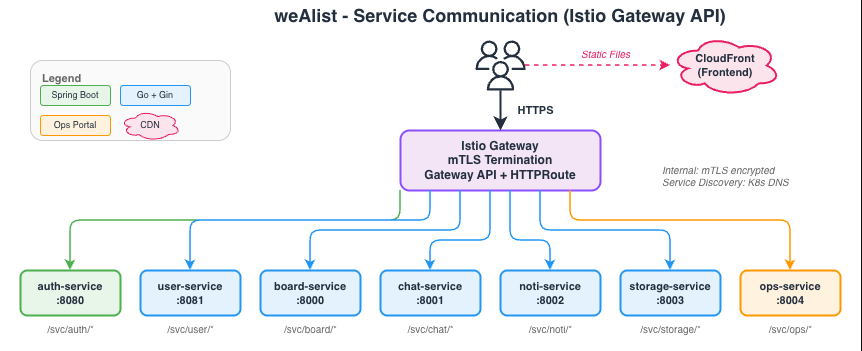
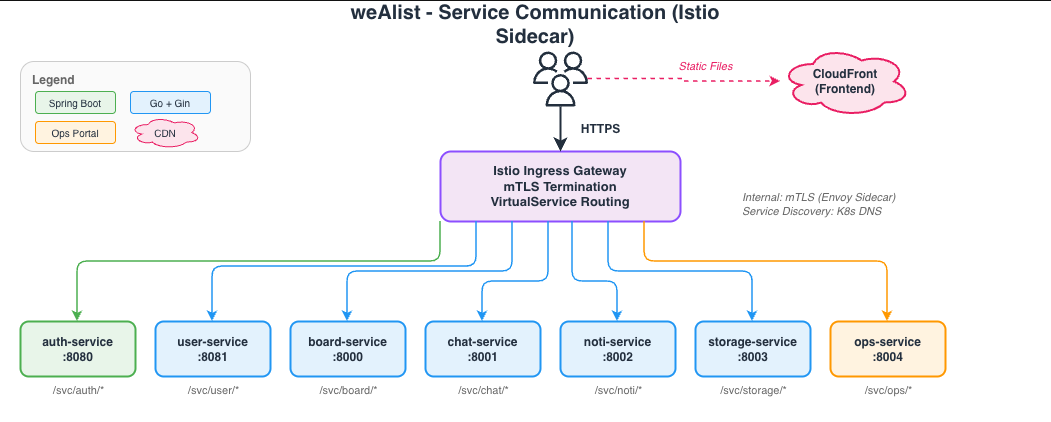
img 수정

diff --git a/docs/wiki/Architecture.md b/docs/wiki/Architecture.md
@@ -45,7 +45,7 @@ weAlist의 전체 시스템 아키텍처입니다.
 | **Database** | PostgreSQL 17 | 6개 DB (서비스별 분리) |
 | **Cache** | Redis 7.2 | 캐시, 토큰 저장소 |
 | **Object Storage** | S3 / MinIO | 파일 스토리지 |
-| **API Gateway** | Istio Gateway API | HTTPRoute 기반 라우팅 |
+| **API Gateway** | Istio Ingress Gateway | VirtualService 기반 라우팅 |
 | **Service Mesh** | Istio 1.24.0 | mTLS, AuthorizationPolicy |
 | **Monitoring** | Prometheus + Grafana + Loki + OTEL + Tempo | 메트릭/로그/트레이싱 |
 
